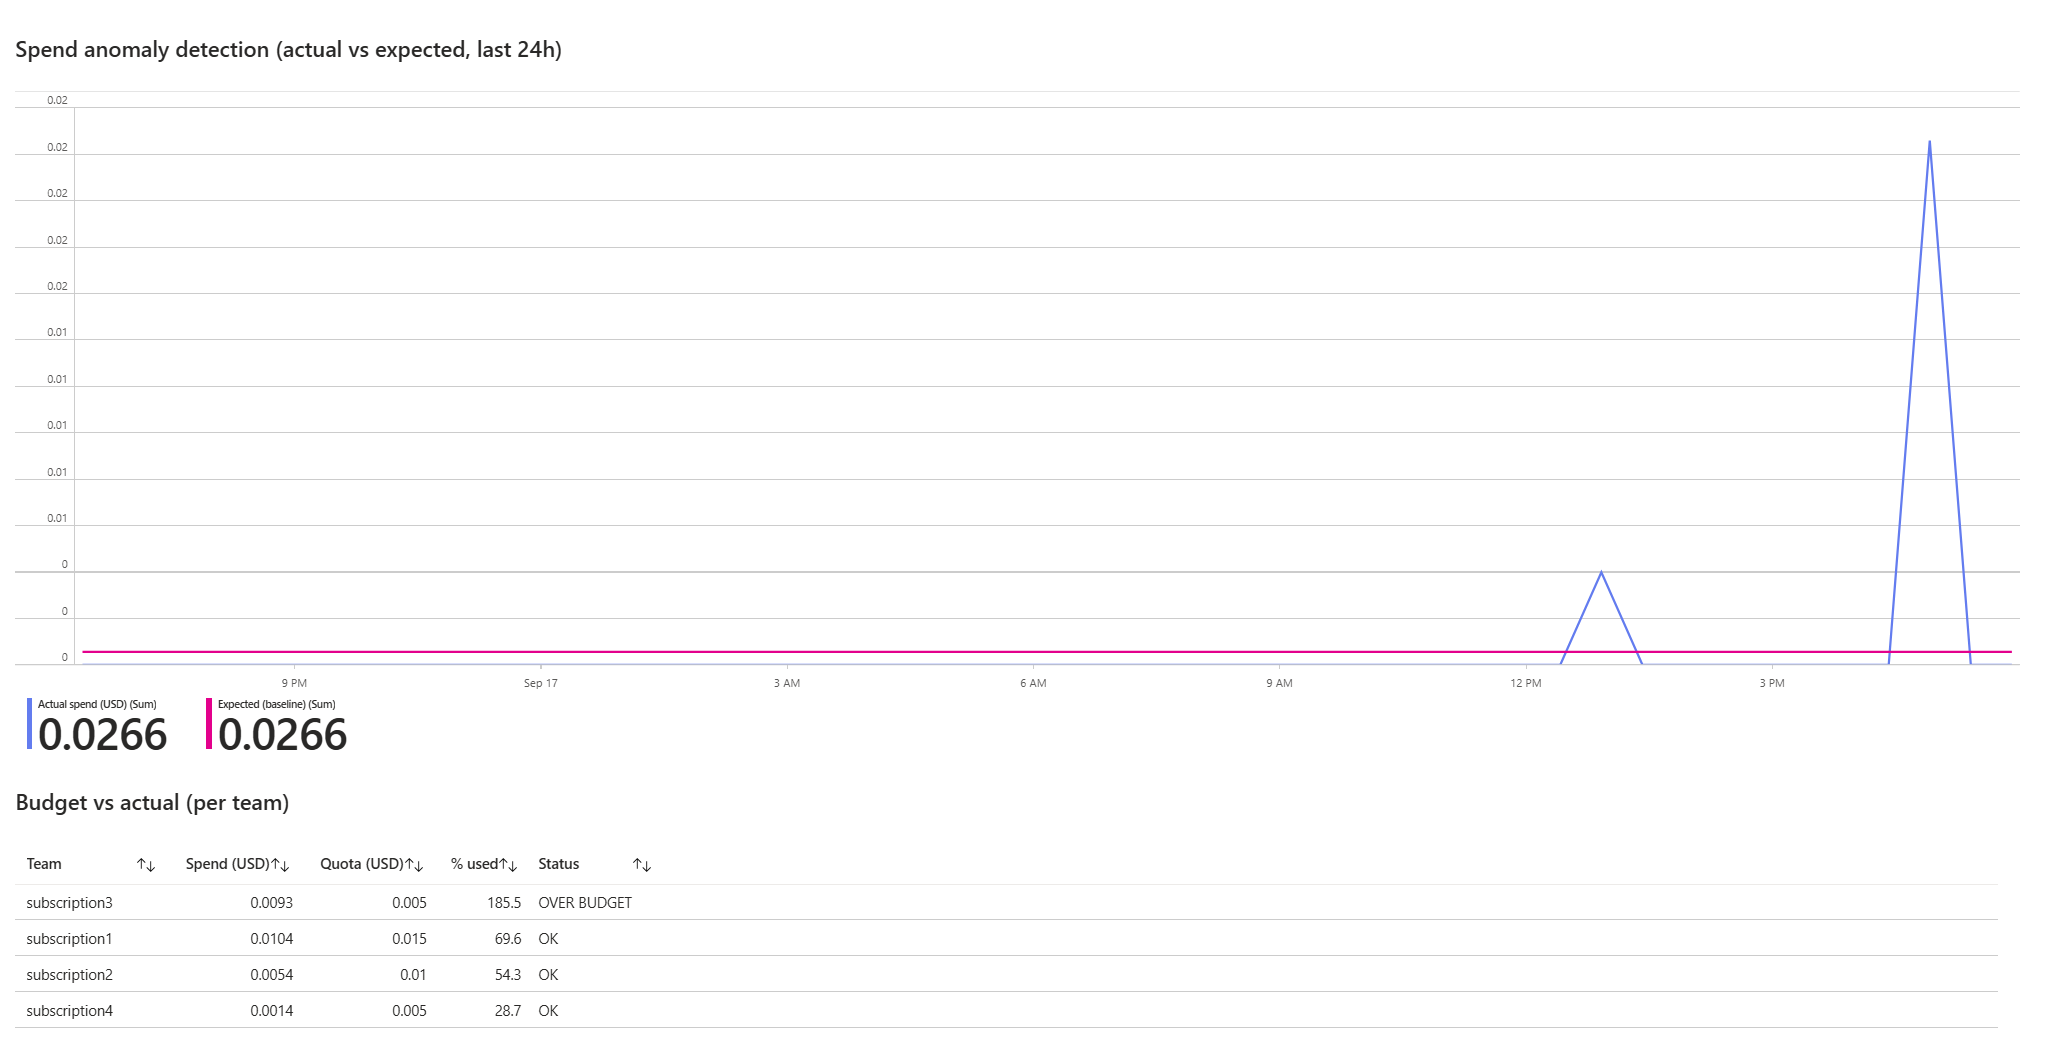
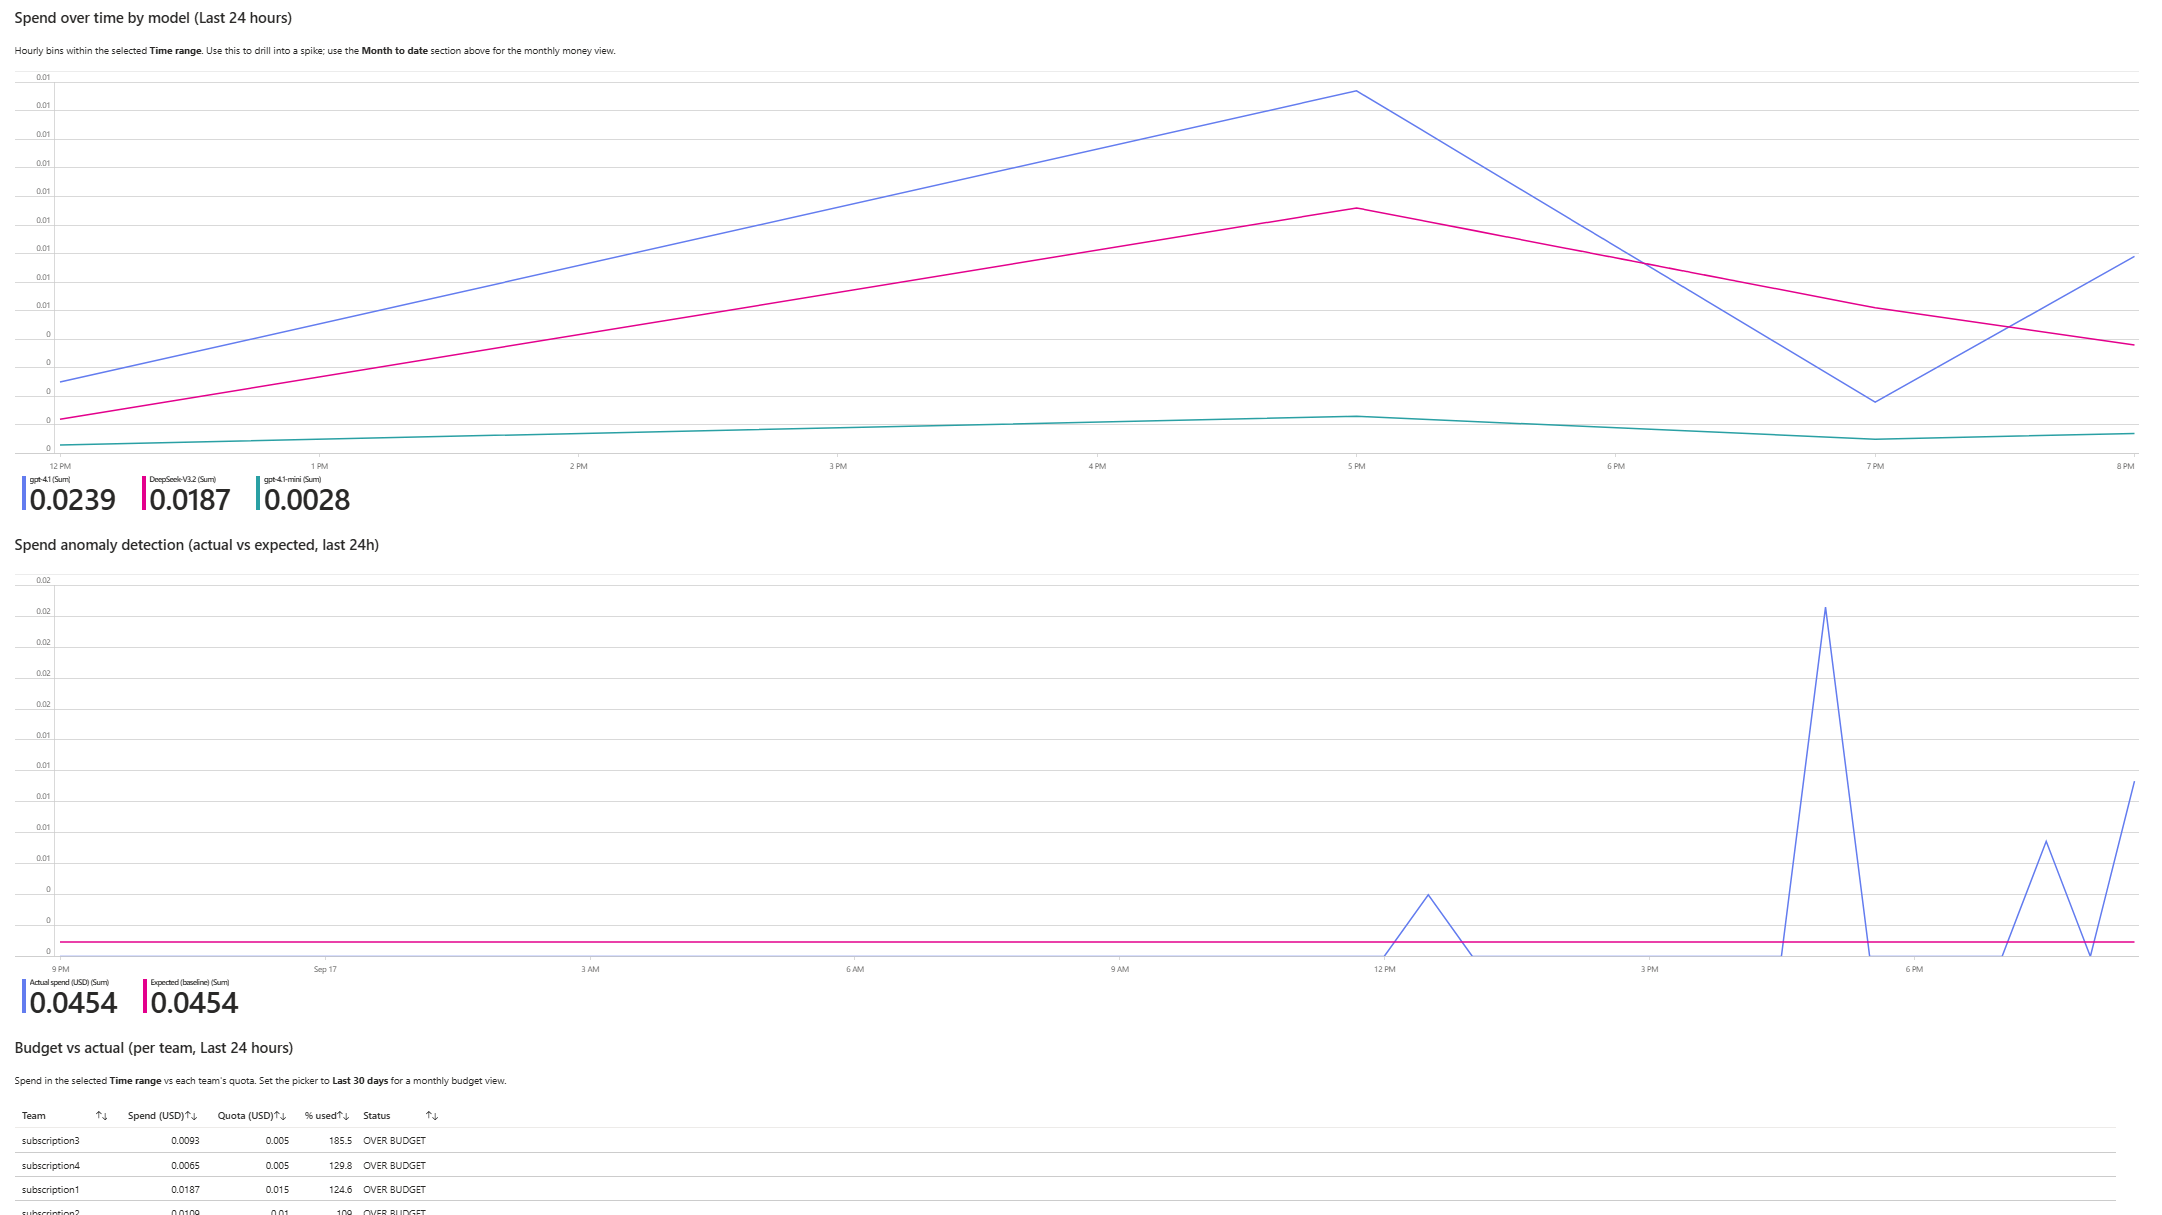
docs: refresh cost workbook screenshots (KPIs + Month to date/burn-up, live token + spend by model/team, spend over time + anomaly + budget) and update captions

diff --git a/README.md b/README.md
@@ -18,20 +18,20 @@ Use it two ways:
 
 *The Log Analytics cost and chargeback workbook ([`workbook/FoundryCostAnalysis-LogAnalytics.workbook`](workbook/FoundryCostAnalysis-LogAnalytics.workbook)).*
 
-Two pickers scope everything: **Time range** and **Subscription** (the APIM subscription =
-team). The KPI strip shows **total cost, total tokens, calls, and cost per 1K tokens** for the
-selected scope. The **Live token volume** tile reads platform metrics (about 1 minute) for
-near-real-time input / output / total tokens, faster than the log-based tiles. Below (not in
-this view) are spend by model, spend by subscription, spend over time, anomaly detection,
+Two pickers scope everything: **Time range** and **Subscription** (the APIM subscription = team).
+The top **KPI strip** shows total cost, total tokens, calls, and cost per 1K tokens for the selected
+range. The **Month to date** section is a fixed calendar-month view: spend so far, a run-rate
+projected month-end, average per day, and a per-day + cumulative **burn-up**. Further down (next
+images) are live token volume, spend by model and by team, spend over time, anomaly detection,
 budget vs actual, a PRICE MISSING data-quality tile, token split, and a top-consumers table.
 
-![Spend by model, by subscription, and over time](docs/dashboard-breakdown.png)
+![Live token volume and spend by model and team](docs/dashboard-breakdown.png)
 
-*Breakdown tiles: spend by model, spend by subscription (chargeback), and spend over time.*
+*Live token volume from platform metrics (about 1 minute), and where the money goes: spend by model and by subscription (chargeback).*
 
-![Spend anomaly detection and budget vs actual](docs/dashboard-anomaly-budget.png)
+![Spend over time, anomaly detection, and budget vs actual](docs/dashboard-anomaly-budget.png)
 
-*Spend anomaly detection (actual vs expected) and budget vs actual per subscription, with an OVER BUDGET / Warning / OK status.*
+*Spend over time by model, spend anomaly detection (actual vs expected), and budget vs actual per team with an OVER BUDGET / Warning / OK status.*
 
 ### Foundry Cost & ROI workbook
 
